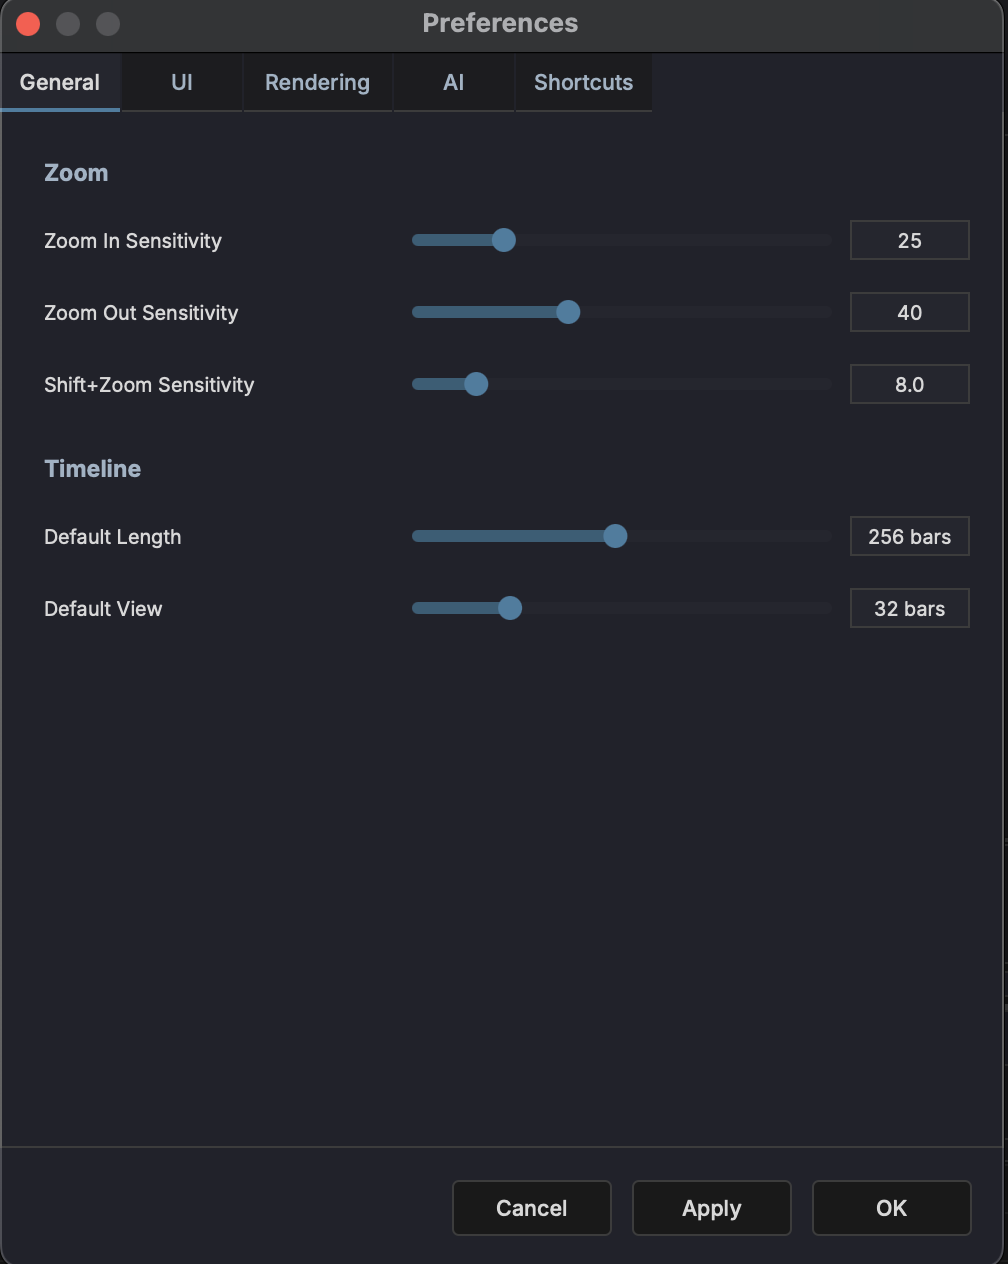
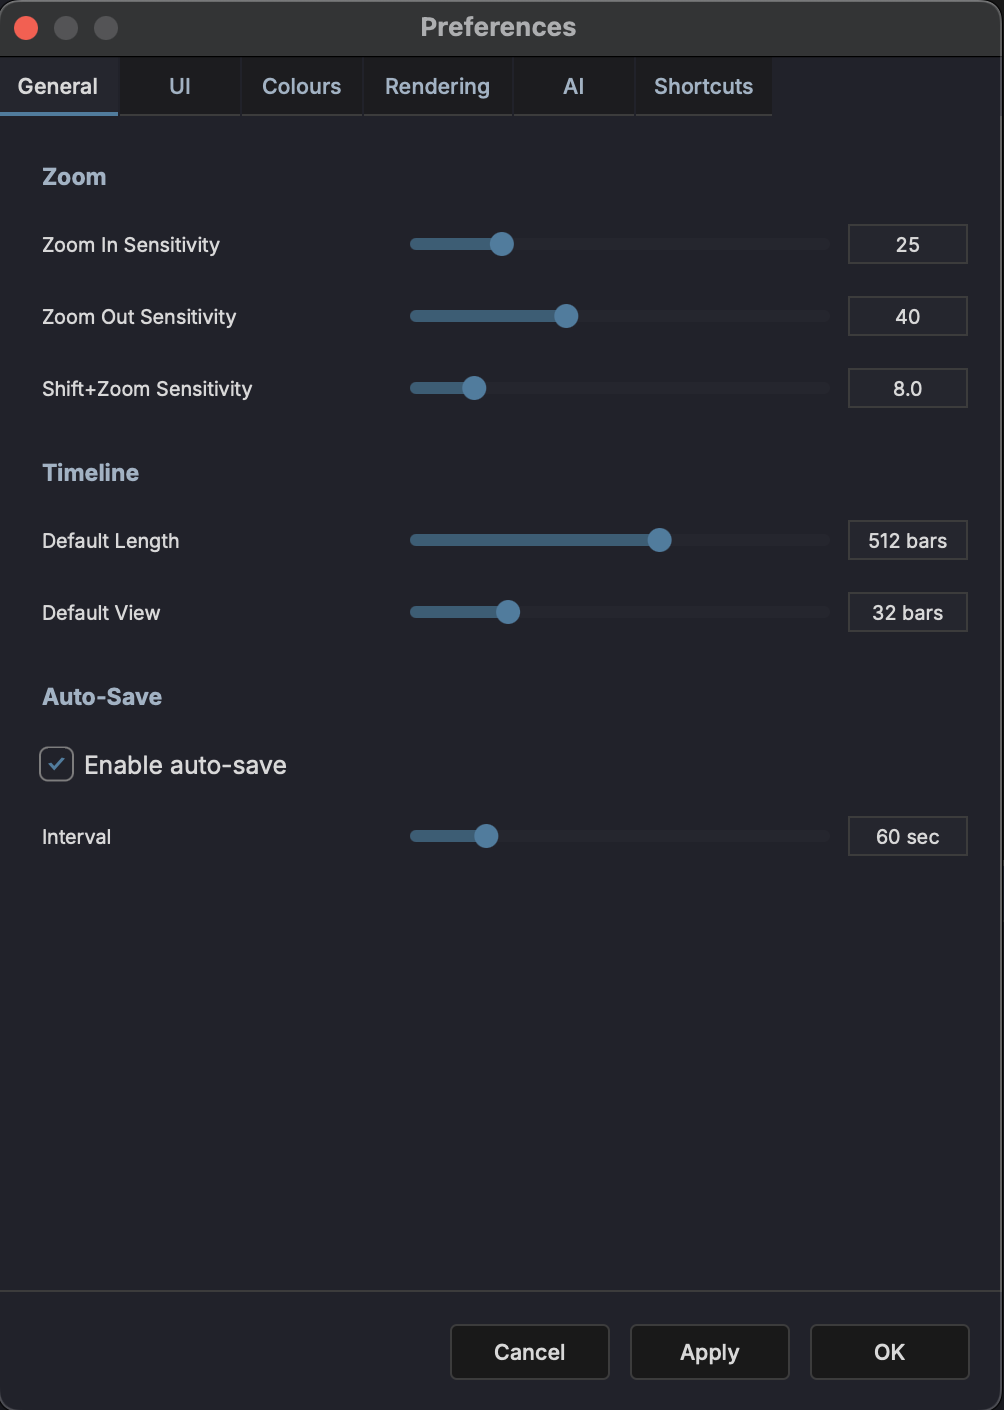
Feat/audio stats panel (#877)
* Add audio device info tooltip to CPU area in transport panel

* Remove I/O info from CPU tooltip and update preferences manual page

* Add batch colour for clips and tracks, fix PR review feedback

- Colour picker now applies to all selected clips/tracks, not just primary
- Show colour swatch in multi-track inspector mode
- Move device info query into PlaybackPositionTimer to use its own engine ref
- Short-circuit tooltip rebuild when content unchanged
- Clear stale device info when audio device disconnects

diff --git a/magda/daw/ui/panels/content/inspector/TrackInspector.cpp b/magda/daw/ui/panels/content/inspector/TrackInspector.cpp
@@ -47,7 +47,7 @@ TrackInspector::TrackInspector() {
     colourSwatch_ = std::make_unique<magda::ColourSwatch>();
     auto* swatch = static_cast<magda::ColourSwatch*>(colourSwatch_.get());
     swatch->onColourClicked = [this, swatch]() {
-        if (selectedTrackId_ == magda::INVALID_TRACK_ID)
+        if (selectedTrackId_ == magda::INVALID_TRACK_ID && selectedTrackIds_.empty())
             return;
 
         auto menu = juce::PopupMenu();
@@ -90,26 +90,35 @@ TrackInspector::TrackInspector() {
             if (result == 0)
                 return;
             const int customOff = static_cast<int>(magda::Config::defaultColourPalette.size()) + 2;
+            auto trackIds = selectedTrackIds_.empty()
+                                ? std::unordered_set<magda::TrackId>{selectedTrackId_}
+                                : selectedTrackIds_;
             if (result == 1) {
                 // "None"
                 swatch->clearColour();
-                magda::UndoManager::getInstance().executeCommand(
-                    std::make_unique<magda::SetTrackColourCommand>(selectedTrackId_,
-                                                                   juce::Colour(0xFF444444)));
+                for (auto tid : trackIds) {
+                    magda::UndoManager::getInstance().executeCommand(
+                        std::make_unique<magda::SetTrackColourCommand>(tid,
+                                                                       juce::Colour(0xFF444444)));
+                }
             } else if (result >= 2 && result < customOff) {
                 // Default colour
                 auto colour = juce::Colour(magda::Config::getDefaultColour(result - 2));
                 swatch->setColour(colour);
-                magda::UndoManager::getInstance().executeCommand(
-                    std::make_unique<magda::SetTrackColourCommand>(selectedTrackId_, colour));
+                for (auto tid : trackIds) {
+                    magda::UndoManager::getInstance().executeCommand(
+                        std::make_unique<magda::SetTrackColourCommand>(tid, colour));
+                }
             } else {
                 // Custom colour
                 auto idx = static_cast<size_t>(result - customOff);
                 if (idx < customPalette.size()) {
                     auto colour = juce::Colour(customPalette[idx].colour);
                     swatch->setColour(colour);
-                    magda::UndoManager::getInstance().executeCommand(
-                        std::make_unique<magda::SetTrackColourCommand>(selectedTrackId_, colour));
+                    for (auto tid : trackIds) {
+                        magda::UndoManager::getInstance().executeCommand(
+                            std::make_unique<magda::SetTrackColourCommand>(tid, colour));
+                    }
                 }
             }
         });
@@ -1126,6 +1135,7 @@ void TrackInspector::updateFromMultiTrackSelection() {
     // Show name + buttons + volume/pan; hide routing/sends/clips
     trackNameLabel_.setVisible(true);
     trackNameValue_.setVisible(true);
+    colourSwatch_->setVisible(true);
     muteButton_.setVisible(true);
     speakerButton_->setVisible(false);
     soloButton_.setVisible(true);

diff --git a/magda/daw/ui/panels/content/inspector/clip/ClipInspectorSections.cpp b/magda/daw/ui/panels/content/inspector/clip/ClipInspectorSections.cpp
@@ -101,31 +101,42 @@ void ClipInspector::initClipPropertiesSection() {
             if (result == 1) {
                 // "None"
                 swatch->clearColour();
-                magda::UndoManager::getInstance().executeCommand(
-                    std::make_unique<magda::SetClipColourCommand>(pid, juce::Colour(0xFF444444)));
+                for (auto cid : selectedClipIds_) {
+                    magda::UndoManager::getInstance().executeCommand(
+                        std::make_unique<magda::SetClipColourCommand>(cid,
+                                                                      juce::Colour(0xFF444444)));
+                }
             } else if (result == 2) {
                 // Inherit from track
-                const auto* clip = magda::ClipManager::getInstance().getClip(pid);
-                if (clip) {
-                    const auto* track = magda::TrackManager::getInstance().getTrack(clip->trackId);
-                    if (track) {
-                        swatch->setColour(track->colour);
-                        magda::UndoManager::getInstance().executeCommand(
-                            std::make_unique<magda::SetClipColourCommand>(pid, track->colour));
+                for (auto cid : selectedClipIds_) {
+                    const auto* clip = magda::ClipManager::getInstance().getClip(cid);
+                    if (clip) {
+                        const auto* track =
+                            magda::TrackManager::getInstance().getTrack(clip->trackId);
+                        if (track) {
+                            if (cid == pid)
+                                swatch->setColour(track->colour);
+                            magda::UndoManager::getInstance().executeCommand(
+                                std::make_unique<magda::SetClipColourCommand>(cid, track->colour));
+                        }
                     }
                 }
             } else if (result >= 3 && result < customOff) {
                 auto colour = juce::Colour(magda::Config::getDefaultColour(result - 3));
                 swatch->setColour(colour);
-                magda::UndoManager::getInstance().executeCommand(
-                    std::make_unique<magda::SetClipColourCommand>(pid, colour));
+                for (auto cid : selectedClipIds_) {
+                    magda::UndoManager::getInstance().executeCommand(
+                        std::make_unique<magda::SetClipColourCommand>(cid, colour));
+                }
             } else {
                 auto idx = static_cast<size_t>(result - customOff);
                 if (idx < customPalette.size()) {
                     auto colour = juce::Colour(customPalette[idx].colour);
                     swatch->setColour(colour);
-                    magda::UndoManager::getInstance().executeCommand(
-                        std::make_unique<magda::SetClipColourCommand>(pid, colour));
+                    for (auto cid : selectedClipIds_) {
+                        magda::UndoManager::getInstance().executeCommand(
+                            std::make_unique<magda::SetClipColourCommand>(cid, colour));
+                    }
                 }
             }
         });

diff --git a/magda/daw/ui/panels/TransportPanel.cpp b/magda/daw/ui/panels/TransportPanel.cpp
@@ -987,6 +987,7 @@ void TransportPanel::setCpuUsage(float usage) {
         else
             cpuValueLabel->setText(juce::String(avgPct) + "%", juce::dontSendNotification);
     }
+    updateCpuTooltip();
     repaint(getCpuArea());
 }
 
@@ -1000,6 +1001,48 @@ void TransportPanel::setXrunCount(int count) {
             xrunLabel->setText("", juce::dontSendNotification);
         }
     }
+    updateCpuTooltip();
+}
+
+void TransportPanel::setAudioDeviceInfo(const juce::String& deviceName, double sampleRate,
+                                        int bufferSize) {
+    audioDeviceName_ = deviceName;
+    audioSampleRate_ = sampleRate;
+    audioBufferSize_ = bufferSize;
+    updateCpuTooltip();
+}
+
+void TransportPanel::updateCpuTooltip() {
+    juce::String tip;
+    if (audioDeviceName_.isNotEmpty())
+        tip << "Device: " << audioDeviceName_ << "\n";
+    if (audioSampleRate_ > 0)
+        tip << "Sample rate: " << juce::String(audioSampleRate_ / 1000.0, 1) << " kHz\n";
+    if (audioBufferSize_ > 0) {
+        double latencyMs =
+            (audioSampleRate_ > 0) ? (audioBufferSize_ / audioSampleRate_) * 1000.0 : 0.0;
+        tip << "Buffer: " << audioBufferSize_ << " samples";
+        if (latencyMs > 0)
+            tip << " (" << juce::String(latencyMs, 1) << " ms)";
+        tip << "\n";
+    }
+    tip << "CPU: " << juce::String(juce::roundToInt(currentCpuUsage * 100.0f)) << "%";
+    if (peakCpuUsage > currentCpuUsage + 0.02f)
+        tip << " (peak " << juce::String(juce::roundToInt(peakCpuUsage * 100.0f)) << "%)";
+    if (currentXrunCount_ > 0)
+        tip << "\nXruns: " << currentXrunCount_;
+    tip = tip.trimEnd();
+
+    if (tip == lastTooltip_)
+        return;
+    lastTooltip_ = tip;
+
+    if (cpuTitleLabel)
+        cpuTitleLabel->setTooltip(tip);
+    if (cpuValueLabel)
+        cpuValueLabel->setTooltip(tip);
+    if (xrunLabel)
+        xrunLabel->setTooltip(tip);
 }
 
 }  // namespace magda

diff --git a/magda/daw/engine/PlaybackPositionTimer.cpp b/magda/daw/engine/PlaybackPositionTimer.cpp
@@ -67,8 +67,18 @@ void PlaybackPositionTimer::timerCallback() {
     if (onCpuUsageUpdate && ++cpuUpdateCounter_ >= CPU_UPDATE_TICKS) {
         cpuUpdateCounter_ = 0;
         auto* dm = engine_.getDeviceManager();
-        if (dm)
-            onCpuUsageUpdate(static_cast<float>(dm->getCpuUsage()), dm->getXRunCount());
+        if (dm) {
+            juce::String deviceName;
+            double sampleRate = 0.0;
+            int bufferSize = 0;
+            if (auto* device = dm->getCurrentAudioDevice()) {
+                deviceName = device->getName();
+                sampleRate = device->getCurrentSampleRate();
+                bufferSize = device->getCurrentBufferSizeSamples();
+            }
+            onCpuUsageUpdate(static_cast<float>(dm->getCpuUsage()), dm->getXRunCount(), deviceName,
+                             sampleRate, bufferSize);
+        }
     }
 }
 

diff --git a/magda/daw/ui/windows/MainWindow.cpp b/magda/daw/ui/windows/MainWindow.cpp
@@ -689,10 +689,12 @@ void MainWindow::MainComponent::setupAudioEngineCallbacks(AudioEngine* engine) {
             if (sessionView)
                 sessionView->setSessionPlayheadPositions(clipPositions);
         };
-    positionTimer_->onCpuUsageUpdate = [this](float cpu, int xruns) {
+    positionTimer_->onCpuUsageUpdate = [this](float cpu, int xruns, const juce::String& deviceName,
+                                              double sampleRate, int bufferSize) {
         if (transportPanel) {
             transportPanel->setCpuUsage(cpu);
             transportPanel->setXrunCount(xruns);
+            transportPanel->setAudioDeviceInfo(deviceName, sampleRate, bufferSize);
         }
     };
     positionTimer_->start();  // Start once and keep running

diff --git a/magda/daw/ui/panels/TransportPanel.hpp b/magda/daw/ui/panels/TransportPanel.hpp
@@ -66,6 +66,7 @@ class TransportPanel : public juce::Component {
     // CPU usage display (0.0 to 1.0)
     void setCpuUsage(float usage);
     void setXrunCount(int count);
+    void setAudioDeviceInfo(const juce::String& deviceName, double sampleRate, int bufferSize);
 
   private:
     // Transport controls (left section)
@@ -175,6 +176,11 @@ class TransportPanel : public juce::Component {
     float peakCpuUsage = 0.0f;
     int peakDecayCounter_ = 0;
     int currentXrunCount_ = 0;
+    juce::String audioDeviceName_;
+    double audioSampleRate_ = 0.0;
+    int audioBufferSize_ = 0;
+    juce::String lastTooltip_;
+    void updateCpuTooltip();
 
     JUCE_DECLARE_NON_COPYABLE_WITH_LEAK_DETECTOR(TransportPanel)
 };

diff --git a/magda/daw/engine/PlaybackPositionTimer.hpp b/magda/daw/engine/PlaybackPositionTimer.hpp
@@ -35,8 +35,8 @@ class PlaybackPositionTimer : private juce::Timer {
         Only called when at least one session clip has an active playhead. */
     std::function<void(const std::unordered_map<ClipId, double>&)> onSessionPlayheadUpdate;
 
-    /** Callback fired periodically with CPU usage (0.0 to 1.0) and xrun count. */
-    std::function<void(float, int)> onCpuUsageUpdate;
+    /** Callback fired periodically with CPU usage (0.0 to 1.0), xrun count, and device info. */
+    std::function<void(float, int, const juce::String&, double, int)> onCpuUsageUpdate;
 
   private:
     void timerCallback() override;

diff --git a/manual/docs/interface/preferences.md b/manual/docs/interface/preferences.md
@@ -1,18 +1,28 @@
 # Preferences
 
-Open the Preferences dialog from **Settings > Preferences**. The dialog has five tabs.
+Open the Preferences dialog from **Settings > Preferences**. The dialog has six tabs.
 
 ![Preferences](../assets/images/interface/preferences.png)
 
 ## General
 
-- **Default zoom level** — Initial horizontal zoom when opening a project
-- **Timeline units** — Choose between bars/beats and time (minutes:seconds)
+- **Zoom In Sensitivity** — Controls how fast the timeline zooms in
+- **Zoom Out Sensitivity** — Controls how fast the timeline zooms out
+- **Shift+Zoom Sensitivity** — Controls zoom speed when holding Shift
+- **Default Length** — Default timeline length for new projects (in bars)
+- **Default View** — Default visible range when opening a project (in bars)
+- **Auto-Save** — Enable or disable automatic saving, and set the interval
 
 ## UI
 
 - **Panel visibility defaults** — Choose which panels are shown on startup
 - **Behavior settings** — Configure UI interaction preferences
+
+## Colours
+
+- **Custom colour palette** — Define a custom set of colours for tracks and clips
+- **Track colours** — Right-click any track header to assign a colour; the colour tints headers in the arrangement, session view, and mixer strips
+- **Clip colours** — Clips can have their own colour or follow the track colour
 
 ## Rendering
 
